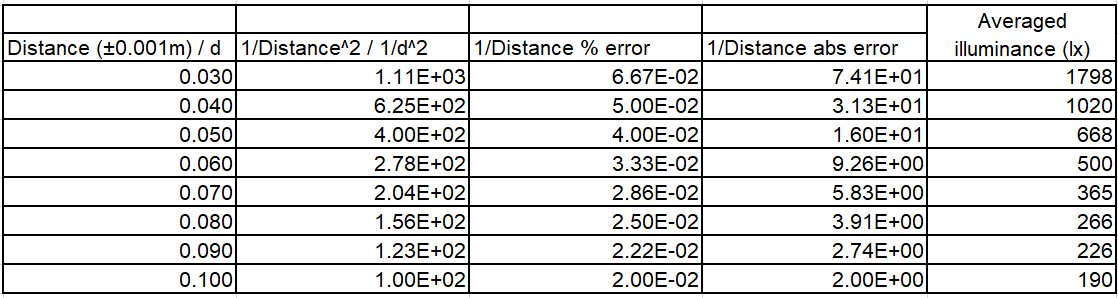
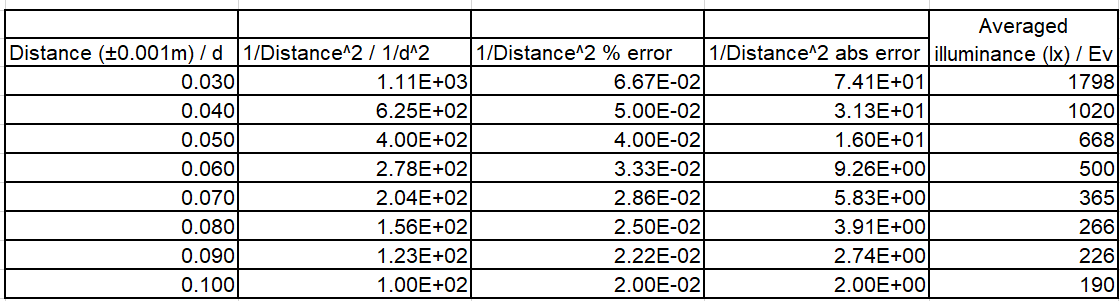
Fixed physics

diff --git a/Physics/draft/light.tex b/Physics/draft/light.tex
@@ -41,7 +41,6 @@
 \usepackage{subcaption}
 \usepackage{wrapfig}
 
-
 \title{Empirically finding the typical luminous efficacy of an incandescent light bulb through the inverse square law}
 
 % no author or date
@@ -55,7 +54,7 @@
 \section{Design}
 
 \subsection{Introduction}
-I've seen a video online discussing a historical usage of electrical light sources to illuminate the street, where it mentioned a ``Moonlight tower'' in San Jose, California to light up an entire city through a single light source (citation). The video considered it to be a joke of an invention for the very little light it gave out for pedestrians, as comparable to the actual moon --- hence the name ``Moonlight''. While it is common sense that the further you are from a light source, the less bright it seems. I was fascinated by how fast the brightness had decreased so much so that a sun-like light bulb can be so dim only 100 meters away. I want to test how the light intensity changes with the distance to the light source.
+I've seen a video online discussing a historical usage of electrical light sources to illuminate the street, where it mentioned a ``Moonlight tower'' in San Jose, California to light up an entire city through a single light source \parencite{tower}. The video considered it to be a joke of an invention for the very little light it gave out for pedestrians, as comparable to the actual moon --- hence the name ``Moonlight''. While it is common sense that the further you are from a light source, the less bright it seems. I was fascinated by how fast the brightness had decreased so much so that a sun-like light bulb can be so dim only 100 meters away. I want to test how the light intensity changes with the distance to the light source.
 
 For the video had also poke at the inefficiency of the light-bulbs at the time, I wanted to see how technology has improved through 200 years of development. Particularly, the 5 watt light-bulbs we used in physics always felt blazing hot when powered on --- wasted thermal energy in energy conversion between electrical and light energy. I decided to use this opportunity and select one of such bulb to a test of efficiency. How efficient are our light-bulbs at producing illuminance comparing to other light sources?
 
@@ -81,7 +80,7 @@ For a light-bulb to produce light, an electrical current in the form of moving e
     \label{eq:work}
 \end{figure}
 
-The energy dissipated in the filament within the light-bulb are converted into thermal energy and electromagnetic waves. The waves are energy disturbances in the air medium traveling in all directions originated at the filament, and the rate of these light waves incidence per unit area is the intensity of the light-source at the location, represented with symbol (I) and in units watts per meter squared ($\si{W/m^2}$). The  inverse square law is a relationship between the light intensity (I) at a distance (d) of a light source with power (P) (citation):
+The energy dissipated in the filament within the light-bulb are converted into thermal energy and electromagnetic waves. The waves are energy disturbances in the air medium traveling in all directions originated at the filament, and the rate of these light waves incidence per unit area is the intensity of the light-source at the location, represented with symbol (I) and in units watts per meter squared ($\si{W/m^2}$). The inverse square law is a relationship between the light intensity (I) at a distance (d) of a light source with power (P) \parencite{isl}:
 
 
 %For it is the emission of light waves/photons that we call ``light'', the density of these photons in an area naturally defines the intensity of light (of units $\si{W\per m^2}$). This relationship is a part of the IB curriculum at topic 4.3, Waves Characteristics, where it states a fundamental property of light intensity --- that the intensity of light is proportional to the inverse distance squared (figure \ref{eq:prop}).
@@ -143,9 +142,14 @@ E_v = k \frac{1}{d^2}
 
 The typical luminous efficacy ($K$) of a light source is a measurement of the amount of light waves produced per watt, in unit $\frac{\si{lm}}{W}$. For the constant $k$ have unit $\si{lm}$, the typical luminous efficacy is the proportionality constant divided by the source wattage, or as:
 
-\[
-K = \frac{k}{P}
-\]
+\begin{figure}[H]
+    \[
+    K = \frac{k}{P}
+    \]
+    \caption{The typical luminous efficacy formula}
+    \label{fig:tle}
+\end{figure}
+
 The value can then be compared to a list of common light sources to determine the relative efficiency of the physics departments' light-bulbs.
 
 %However, the human eyes does not perceive the intensity of light uniformly through the wavelengths \parencite{candela}. Under conditions for photopic vision --- the vision of the eye in a well lit area, we perceive light in the green wavelength (555 $\si{nm}$) the most intensely. Therefore there is a need for a unit that displays the normalized intensity of different wavelengths of light --- the unit Candela and the photopic luminosity function \parencite{si_candela}.
@@ -311,7 +315,7 @@ The power is defined as the current times the voltage:
     \relun \si{W} &= 0.04 \,(1 \tsf), \quad &&\absun \si{W} = 0.07\si{W} \,(1 \tsf)
 \end{alignat*}
 
-Therefore: Power$ = 1.94 \pm 0.07 \si{W}$
+Therefore: $\text{Power} = 1.94 \pm 0.07 \si{W}$
 
 \subsubsection{Processing Illuminance}
 
@@ -339,7 +343,7 @@ For example, in trial 1, at distance 0.030m:
 \paragraphnl{Averaging trial illuminances}
 Average the measured illuminance from 5 trials. Figure \ref{fig:average} shows the corrected illuminance values and the averages. Figure \ref{gph:average} plots the averaged illuminance values against the distances.
 
-For example, averaging the illumiance measurements at distance 0.030m:
+For example, averaging the illuminance measurements at distance 0.030m:
 \begin{align*}
  \text{Illuminance}_{\text{average}} &= \frac{\sum \text{Illuminance}}{5}\\
  &= \frac{1767+1940+1737+1781+1767}{5}\\
@@ -371,22 +375,21 @@ For example, at distance 0.030m:
 
 
 \paragraphnl{Applying inverse squared transform on distance}
-Figure \ref{gph:average} looks like an inverse squared graph, so I attempted to straighten it with $1/{\text{distance}}^2$ transformation on the horizontal axis. The transformation data and error is generated with Microsoft Excel (figure \ref{fig:tdata}, graph \ref{gph:tdata}).
+Figure \ref{gph:average} looks like an inverse squared graph, so I attempted to straighten it with $1/{\text{distance}}^2$ transformation on the horizontal axis. The transformation data and error is generated with Microsoft Excel (figure \ref{fig:tdata}, figure \ref{gph:tdata}).
 
 For example, at distance 0.030m:
 \begin{align*}
- \frac{1}{\text{Distance}^2} &= 0.03 ^ {-2}\\
- &= 1100\,\si{m^-2}\, (2 \tsf)\\
+ \frac{1}{\text{Distance}^2} &= 0.030 ^ {-2}\\
+ &= 1110\,\si{m^{-2}}\, (3 \tsf)\\
 \end{align*}
-
 
 \textit{Uncertainty of the transformed distance}: $\relun 1/{\text{Distance}}^2$ = $2 \times \relun \text{Distance}$
 
 For distance 0.030m:
 \begin{align*}
- 2 \times \relun \text{Distance} &= 2 \times 0.033 = 0.0667 \,(2 \tsf)\\
- \frac{1}{\text{Distance}^2} &= 1100\, \si{lx} \pm 6.67\%\\
- &= 1100 \pm 100 \,\si{lx}
+ \relun 1/{\text{Distance}}^2 = 2 \times \relun \text{Distance} &= 2 \times 0.0333 = 0.0667 \,(3 \tsf)\\
+ \frac{1}{\text{Distance}^2} &= 1110\, \si{lx} \pm 6.67\%\\
+ &= 1110 \pm 70 \,\si{lx}
 \end{align*}
 
 
@@ -405,64 +408,68 @@ For distance 0.030m:
 \end{figure}
 
 \paragraphnl{Gradient and Errors}
-Figure \ref{gph:tdata} shows the regression line and its equation (top equation), and the two lines of worst fits for error calculations (middle and lower equation). The $1/\text{Distance}^2$ horizontal error bars are used for plotting the line of worst fits as they are larger in size then the illumiance/vertical errors. The uncertainty of the gradient in the regression line is calculated using the half range of the gradient in the line of worst fits.
+Figure \ref{gph:tdata} also displays the regression line and its equation (top equation), and the two lines of worst fits for error calculations (middle and lower equation). The $1/\text{Distance}^2$ horizontal error bars are used for plotting the line of worst fits as they are larger in size then the illuminance/vertical errors. The uncertainty of the gradient and y-intercept of the regression line are calculated using the half range of values in the line of worst fits.
 
 %The justification for the horizontal error line of worst fits in figure \ref{gph:tdata} resides in the accuracy of the measuring devices: the percentage errors of the ruler are (for all values) larger than the percentage error of the light sensor, as indicated by the size of the error bars.
 
-Gradient of regression line: 1.59
+Regression line gradient, y-intercept: 1.59, 34.2 ($3 \tsf$)
 
-Higher gradient line of worst fit (HGLWF): 1.7209
+\textit{Uncertainty of gradient using half range}:\\
+Highest gradient error line gradient, y-intercept: 1.72, 12.9 ($3 \tsf$).
 
-Lower gradient line of worst fit (LGLWF): 1.4768
+Lowest gradient error line gradient, y-intercept: 1.48, 47.1 ($3 \tsf$).
 
-Gradient of line of best fit (GLBF): 1.5881
+Gradient uncertainty: $\frac{1.72-1.48}{2} = 0.120$
 
-Half range: $\frac{1}{2} (\text{HGLWF} - \text{LGLWF})= \frac{1}{2}(1.7209-1.4768) \approx 0.121 \approx 12.1\% $
+y-intercept uncertainty: $\frac{47.1-12.9}{2} = 17.1$
 
-Final \% error: $12.1\%$
+Therefore, the regression line and thus the relationship between illuminance ($E_v$) against the distance ($d$) is:
 
-\textit{Uncertainty}: \% error x GLBF = 12.1\% of $1.59$ = 0.2 (1 sf)
-
-Slope = $1.6 \pm 0.2$
-
-Therefore, the relationship is summarized as in figure \ref{fig:rel}:
+%Therefore, the relationship is summarized as in figure \ref{fig:rel}:
 \begin{figure}[h!]
     \[
-       E_v = (1.6 \pm 0.2) \frac{1}{s^2} + 49.2
+       E_v = (1.6 \pm 0.1) \frac{1}{d^2} + (30 \pm 20)
     \]
     \caption{Experimental relationship between illuminance against distance from source}
     \label{fig:rel}
 \end{figure}
 
+% TODO: compare with actual data
+
 \section{Conclusions}
 \subsection{Result}
 
-Following the data collection and some transformation for linearization, the relationship is summarized in figure \ref{fig:rel}. It seems that the data had supported my suspicion to a large extend. From graph \ref{gph:average}, one can see the that measured illuminance  greatly falls when the distance to source increases --- notice the distance scale. To create a linear curve, the illuminance ($E_v$) is plotted against the inverse square of the distance ($\frac{1}{s^2}$) shown in graph \ref{gph:tdata}. The small variance of the data points from the line of best fit is a strong evidence to support my hypothesis.
+There exists a clear and strong inverse squared relationship between the illuminance and the distance to the light-bulb, as shown in the transformed graph in figure \ref{gph:tdata}, and the close to one correlation coefficient $\sqrt{0.9995}=0.9997$. This shows that as the distance to a light source increases, the illuminance decreases relatively rapidly at close distances but relatively less at far distances, and vice versa.
+%Following the data collection and some transformation for linearization, the relationship is summarized in figure \ref{fig:rel}. The data had mostly supported the theory of the inverse square law. From figure \ref{gph:average}, one can see the that the measured illuminance falls rapidly when the distance to source increases. To create a linear curve, the illuminance ($E_v$) is plotted against the inverse square of the distance ($\frac{1}{d^2}$) shown in figure \ref{gph:tdata}. The small variance of the data points from the regression line is a strong evidence to support my hypothesis.
 
-However, for the hypothesis also suggests that the relation curve should also intercept the y axis at point (0, 0), the lack of that feature in the graph suggests some systematical error are present --- the line of best fit has a positive intercept of $34.2 \si{lx}$ instead of $0 \si{lx}$. The existance of some systematic error shifting the curve upwards usually means a degree of inaccuracy, but judging from the small percentage of the error in respect to the values data points --- $34.2 / 1798 \approx 2\%$, the inaccuracy present here is tiny, further indicating a success in my method. Nevertheless, the systematic error could be caused by the erroneous reading of the ambient illuminance, parallax error in aligning the ruler, or by a lack of calibration of the light sensor.
+However, the theory of inverse square law also suggests that the relationship curve should have a y-intercept of 0. The non-zero y-intercept of the regression line --- even considering the ranges of uncertainty ($0 \notin [10, 50]$), suggests some systematical error are present. The curve is shifted upwards by however a relatively small amount, which could be caused by the erroneous reading of the ambient illuminance, parallax error in aligning the ruler, or by a lack of calibration of the light sensor. This indicates that the experiment data was not very accurate.
 
-Additionally, the experimental data contains a noticeable amount of uncertainties indicated by the large error bars, particularly at smaller distances. There also exists large random error in the illuminance measurement, as indicated by the high half ranges of the trials of illuminance measurements during averaging (figure \ref{fig:average}) --- sometimes to a degree of $102/1798 \approx 5.7\%$ at the distance of $3\si{cm}$. This is most likely caused by the fluctuation of the light level in the room, which is likely caused by the leakage of sunlight through the window blinds. This is also reflected in the gradient calculations, for the slope had a relatively large uncertainty of $12.1\%$, supporting the presence of large random errors. However, the averaging of the data seemed to reduce the effects of the error. The line of best fit passed through all 8 points of the independent variable, and had a very high R-squared value of $0.9995$ and R value of $\sqrt{0.9995} \approx 0.9997$. This shows a high level of correlation in the data. In conclusion, the raw dataset presented in figure \ref{fig:raw} is said to be highly accuracy but less precise, and contains medium amounts of uncertainty.
+The graph (figure \ref{gph:tdata}) consists of noticeable sized error bars that increases as distance increases. This is caused by the small distances used in combination with the moderately uncertain wooden ruler used. However the results are overall relatively precise due to the low percentage uncertainty of the two axis (figure \ref{fig:tdata}, figure \ref{fig:average}). The experiment data is considered to precise but inaccurate.
+
+%TODO: maybe include this, or not
+%The high correlation coefficient showcases the strong inverse squared relationship between the distance to the light source and the illuminance. This is because light waves from a light source radiates outwards in a perfect sphere, with surface area inversely proportional to the distance to its origin squared. As light intensity is measured in power per area, the larger the sphere surface area, the less intensity of the light as the amount of light waves spreads out. This means that the light intensity is also inversely proportional to the distance squared.
+
+%Additionally, the experimental data contains a noticeable amount of uncertainties indicated by the large error bars, particularly at smaller distances. There also exists large random error in the illuminance measurement, as indicated by the high half ranges of the trials of illuminance measurements during averaging (figure \ref{fig:average}) --- sometimes to a degree of $102/1798 \approx 5.7\%$ at the distance of $3\si{cm}$. This is most likely caused by the fluctuation of the light level in the room, which is likely caused by the leakage of sunlight through the window blinds. This is also reflected in the gradient calculations, for the slope had a relatively large uncertainty of $12.1\%$, supporting the presence of large random errors. However, the averaging of the data seemed to reduce the effects of the error. The line of best fit passed through all 8 points of the independent variable, and had a very high R-squared value of $0.9995$ and R value of $\sqrt{0.9995} \approx 0.9997$. This shows a high level of correlation in the data. In conclusion, the raw dataset presented in figure \ref{fig:raw} is said to be highly accuracy but less precise, and contains medium amounts of uncertainty.
 
 \subsection{Implications}
 
-If we were to define the proportionality constant $\eta$ in figure \ref{eq:li} with parameter power, such that:
+%If we were to define the proportionality constant $\eta$ in figure \ref{eq:li} with parameter power, such that:
 
+%\begin{align*}
+%    \eta &= \frac{1}{4\pi A} \si{\ohm} K_{cd} \int_{0}^{\infty} V(\lambda) c(\lambda) \, d\lambda\\
+ %   E_v &= \eta P \frac{1}{s^2},
+%\end{align*}
+
+%where $\eta$ is another constant, I can fulfill my motivation for this experiment. Notice the units of the constant $\eta$ is $(\frac{\si{lx}}{\si{W\per m^2}} = \frac{\si{lm}}{\si{W}})$, is a value that is only depended on the light source used. Therefore, the constant $\eta$ is a measure of the efficacy of the light-bulb used in the amount of luminous power produced per unit power. This is also known as the typical luminous efficacy, one that I can use to compare to other light-bulbs using an online database. Furthermore, the value can be used to compare efficiency of light-bulbs in your daily life, whether that is to save money, or like me, to appreciate how far lighting technology had advanced.
+
+The typical luminous efficacy ($K$) can be calculated by dividing the gradient constant ($k$) by the power dissipated ($P$) (figure \ref{fig:tle}):
+%A division is needed to calculate the luminous efficacy $\eta$:
 \begin{align*}
-    \eta &= \frac{1}{4\pi A} \si{\ohm} K_{cd} \int_{0}^{\infty} V(\lambda) c(\lambda) \, d\lambda\\
-    E_v &= \eta P \frac{1}{s^2},
+    K &= \frac{k}{P} = \frac{1.6 \pm 0.1}{1.94 \pm 0.07}\\
+    &\approx 0.82 \pm 0.08 \si{lm\per W}.
 \end{align*}
 
-where $\eta$ is another constant, I can fulfill my motivation for this experiment. Notice the units of the constant $\eta$ is $(\frac{\si{lx}}{\si{W\per m^2}} = \frac{\si{lm}}{\si{W}})$, is a value that is only depended on the light source used. Therefore, the constant $\eta$ is a measure of the efficacy of the light-bulb used in the amount of luminous power produced per unit power. This is also known as the typical luminous efficacy, one that I can use to compare to other light-bulbs using an online database. Furthermore, the value can be used to compare efficiency of light-bulbs in your daily life, whether that is to save money, or like me, to appreciate how far lighting technology had advanced.
-
-A division is needed to calculate the luminous efficacy $\eta$:
-\begin{align*}
-    \eta &= \frac{k}{P} = \frac{1.6 \pm 0.2}{1.94 \pm 0.07}\\
-    &\approx 0.82 \pm 0.13 \si{lm\per W}.
-\end{align*}
-
-In comparison to the typical values shown in table \ref{tbl:leff}, the lab incandescent 5W light-bulb that I've used, which has a luminous efficacy value of $0.82 \pm 0.13 (\si{lm\per W})$, looks to be as efficient in producing light as a typical fireplace. This is unsurprising, as the outer glass casing of the bulb readily heats up when it is powered, indicating energy loss in the form of thermal energy. A suggestion is to made for the school physics department for a switch to safer (less temperature), and more energy efficient light-bulbs for general experiments.
-
-\begin{table}[H]
+\begin{wrapfigure}{r}{0.45\textwidth}
     \centering
     \begin{tabular}{l|l}
         Category     & Luminous Efficacy (lm/W) \\ \hline
@@ -472,9 +479,14 @@ In comparison to the typical values shown in table \ref{tbl:leff}, the lab incan
         Fluorescent  & 46-104.2                 \\
         LED          & 75-210
     \end{tabular}
-    \caption{List of common luminous efficacy values of light sources \parencite{le_value1} \parencite{le_value2} \parencite{le_value3} \parencite{le_value4}}
+    \caption{List of common luminous efficacy values of light sources\protect\footnotemark}
     \label{tbl:leff}
-\end{table}
+\end{wrapfigure}
+
+\footnotetext{ \parencite{le_value1} \parencite{le_value2}  \parencite{le_value3} \parencite{le_value4}}
+
+
+Comparing to the luminous efficacy values of a set of common light sources in figure \ref{tbl:leff}, the physics lab incandescent 5W light-bulb with a luminous efficacy value of $0.82 (\si{lm\per W})$, looks to be as efficient in producing light as a typical fireplace. This is unsurprising, as the outer glass casing of the bulb readily heats up when it is powered, indicating energy loss in the form of thermal energy. A suggestion is to made for the school physics department for a switch to safer (less glass temperature), and more energy efficient light-bulbs for general experiments.
 
 \subsection{Reflection}
 
@@ -501,7 +513,8 @@ A potentially significant variable. For the wooden ruler have depth, an angled t
 \paragraph{Accuracy of the light sensor}
 A variable that I was the most concerned about. This may be the largest cause of the systematic error. I could follow a lengthy calibration test listed on the manufacture's website against a factory calibrated source, which will decrease the systematic error and increase the accuracy of the data.
 
-\nocite{*}
+%\nocite{*}
+\newpage
 \printbibliography
 
 
